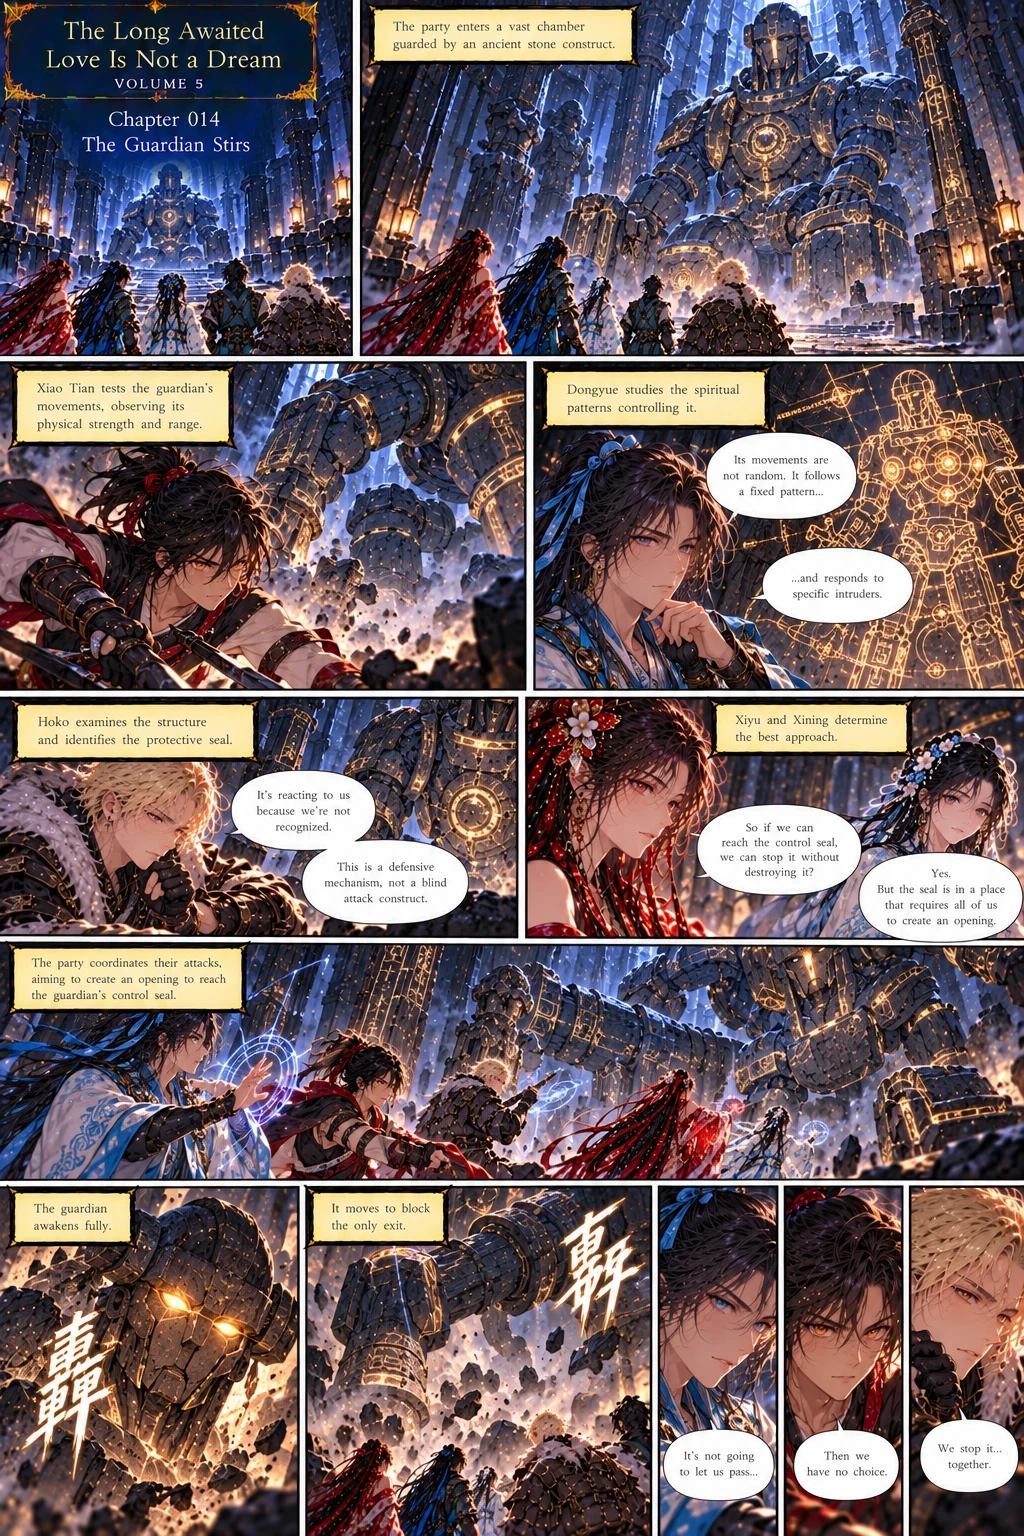
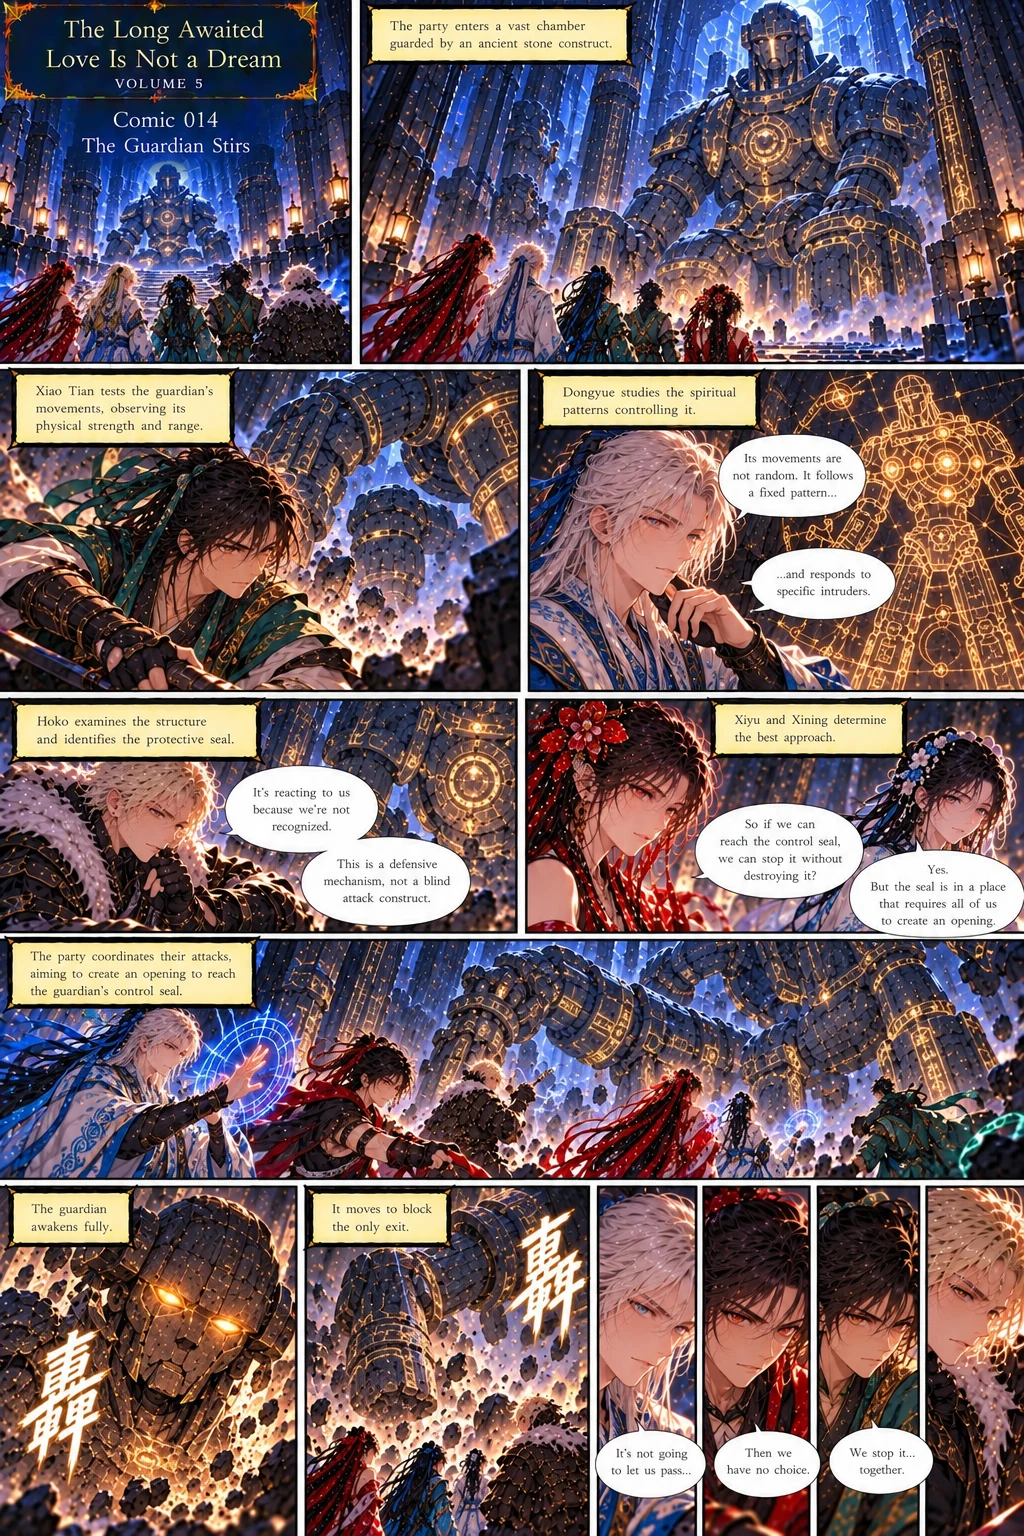
Volume 5: install re-supplied pages 014, 016 and the Commanders' Mark (019)
Claude-Session: https://claude.ai/code/session_01XEYzSJa6dBuS74MycM45Hs

diff --git a/sw.js b/sw.js
@@ -1,5 +1,5 @@
 /* Crimson Moon service worker: app shell cached for offline play; images/comics cached as you play. */
-const VERSION = 'crimson-moon-v30';
+const VERSION = 'crimson-moon-v31';
 const SHELL = ['./', './index.html', './styles.css', './manifest.webmanifest',
   './scripts/characters.js','./scripts/chapters.js','./scripts/script.js','./scripts/script_v2.js','./scripts/hooks.js','./scripts/bounties.js','./scripts/relations.js','./scripts/board.js','./scripts/rest.js','./scripts/herbal.js','./scripts/personal.js','./scripts/equip.js','./scripts/seal.js','./scripts/people.js','./scripts/core.js','./scripts/enemies.js','./scripts/battle.js','./scripts/journal.js','./scripts/temple.js','./assets/maps/ice_temple.webp','./assets/maps/ice_temple_v4.webp','./assets/maps/ice_temple_lower_v4.webp','./assets/volume4_cover.webp','./assets/volume5_cover.webp',
   './scripts/savedata.js','./scripts/storypopup.js','./scripts/ui.js','./assets/splash.webp','./assets/volume1_cover.webp','./assets/icons/icon-192.png','./assets/icons/icon-512.png','./assets/icons/icon-maskable-192.png','./assets/icons/icon-maskable-512.png'];

diff --git a/docs/VOLUME2.md b/docs/VOLUME2.md
@@ -307,3 +307,5 @@ Target 25 comics (chapters 117-141); Volume 5 is not planned yet but also keeps 
 - Still missing: comic 022 (chapter 190, placeholder). Installed: 002 Seven Paths, One Missing Group · 019 The Commanders' Mark · 023 The Four Who Came Before · 024 The Price of Opening the Way · 025 The Unclaimed Seat · 026 The Echo in Skyshard · 027 Beneath the Five Seats · 028 The Record of Five · 029 The Mark That Answers · 030 The Door Below the World ("The four may return. The fifth must choose.").
 - Comics 014, 016 and 018 are being redone by the author (the 014/015 appearance of Dongyue and Xiao Tian is treated as a wardrobe change); installed pages stay until replaced.
 - **Inconsistency for the author:** these pages return to a heavy "records / fifth seat" mystery: erased records, damaged inscriptions, a prophecy, and the fifth position, with several chapters ending on "we don't know yet". That is the investigation style the author asked to move away from; consider adding battles, a witness or a reveal in the next comics.
+
+- **Volume 5 comics 014 and 016 re-supplied and installed** (Dongyue is white-haired again; Xiao Tian in teal). The re-supplied "Commanders' Mark" page is installed as comic 019 (same content), but its title card reads "Chapter 018" and 014's reads "Comic 014": the author will fix. Comic 018 (The Fourfold Formation) has not been re-supplied.
